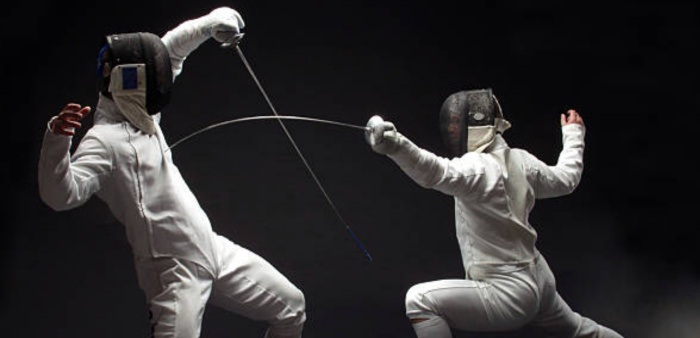
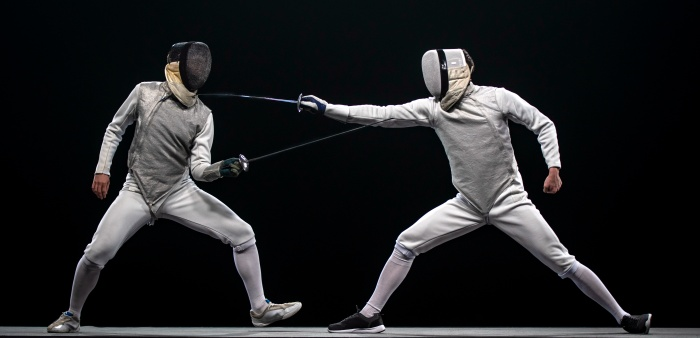
update photos and gui

diff --git a/src/main/gui/StadiumGui.java b/src/main/gui/StadiumGui.java
@@ -13,6 +13,7 @@ import javax.swing.border.LineBorder;
 import java.awt.event.ActionListener;
 import java.awt.event.ActionEvent;
 import javax.swing.*;
+import java.util.Date;
 /**
  * Class to create Stadium window in the game
  * @author Joshua K
@@ -109,8 +110,10 @@ public class StadiumGui implements UserInterface{
 	 * the battle photo for only the opponent athlete won
 	 */
 	private final ImageIcon rightWon = new ImageIcon(getClass().getResource("/Images/RightWon.jpg"));
-
-	
+	/**
+	 * the stanby photo when the player is waiting for the result
+	 */
+	private final ImageIcon standby = new ImageIcon(getClass().getResource("/Images/Standby.jpg"));
 
 
 	/**
@@ -194,7 +197,7 @@ public class StadiumGui implements UserInterface{
 		battlePhoto.setHorizontalAlignment(SwingConstants.CENTER);
 		battlePhoto.setBounds(465, 176, 700, 338);
 		frmStadium.getContentPane().add(battlePhoto);
-		
+		battlePhoto.setIcon(standby);
 	}
 	/*
 	 * set player's athlete and opponent's athlete panels with recent information
@@ -289,6 +292,8 @@ public class StadiumGui implements UserInterface{
 	 */
 	
 	private void getBuffStat() {
+		battlePhoto.setIcon(standby);
+		gameResultLabel.setText("Athlete is ready!!");
 		Athlete current = myRoster[setNum-1];
 		currentStatBuffLabel.setText(String.format("<html> Name : %s <br/>"
 				+ "Original Offense Stat : %d <br/>"
@@ -376,11 +381,21 @@ public class StadiumGui implements UserInterface{
 		fightBttn = new JButton("Fight");
 		fightBttn.addActionListener(new ActionListener() {
 			public void actionPerformed(ActionEvent e) {
-				gameEnvironment.battleSequences();
-				gameResultLabel.setText(printing(gameEnvironment.getBattleMessage()));
-				refreshWindow();	
-				gameEnvironment.isSet();
-				showBattlePhoto();
+
+				try {
+					fightBttn.setEnabled(false);
+					
+					Thread.sleep(400);
+					fightBttn.setEnabled(true);
+					gameEnvironment.battleSequences();
+					gameResultLabel.setText(printing(gameEnvironment.getBattleMessage()));
+					refreshWindow();	
+					gameEnvironment.isSet();
+					showBattlePhoto();
+				}
+				catch(InterruptedException ex) {
+					currentStatBuffLabel.setText(ex.getMessage());
+				}
 				
 				//if the game is finished, disable the gaming buttons and show the result of game on description label
 				if (gameEnvironment.isGame()) {

diff --git a/src/main/gui/MainScreenGui.java b/src/main/gui/MainScreenGui.java
@@ -100,10 +100,7 @@ public class MainScreenGui implements UserInterface{
 	/**
 	 * boolean value that shows if there was random athlete upgrade event
 	 */
-	private boolean isRandomUpgrade;
-	
-	private int testInt;
-	
+	private boolean isRandomUpgrade;	
 	
 	/**
 	 * MainScreen constructor to create main window
@@ -255,12 +252,14 @@ public class MainScreenGui implements UserInterface{
 		athleteBttns[6].addActionListener(new ActionListener() {
 			public void actionPerformed(ActionEvent e) {swapAthleteSlots(6);}});	
 		
-		
+		//when clicking swapOn button, it refresh the buttons clicked.
 		swapOn = new JCheckBox("Swap ON");
 		swapOn.setBounds(847, 370, 128, 23);
 		frmMainWindow.getContentPane().add(swapOn);
 		swapOn.addActionListener(event -> {
 			refreshWindow();
+			athleteSwitchingNum1 = -1;
+			athleteSwitchingNum2 = -1;
 		});
 		/**
 		 * make the labels for Athletes' name
@@ -495,11 +494,10 @@ public class MainScreenGui implements UserInterface{
 					gameEnvironment.useItem(athleteSwitchingNum2, usingItemNum);
 					athleteDescriptionLabel.setText(printing(myRoster[athleteSwitchingNum2]));
 					itemDescriptionLabel.setText("Item is used! Check the difference!!");}
-				
+				else {noticeLabel.setText("Please Click one athlete and one item for each ");}
 				refreshWindow();
 				cancelAthleteToggle();
 				cancelItemToggle();	
-				usingItemNum = -1;	
 			}
 		});
 		itemUseButton.setFont(new Font("Lucida Grande", Font.PLAIN, 20));

diff --git a/src/main/gameObject/athletes/type/Angelina.java b/src/main/gameObject/athletes/type/Angelina.java
@@ -41,6 +41,6 @@ public class Angelina extends Athlete {
         	super.price = 4500.00f;
         	break;
         }
-        super.athleteFacePhoto = new ImageIcon(getClass().getResource("/Images/AngelinaF.jpg"));
+        super.athleteFacePhoto = new ImageIcon(getClass().getResource("/Images/Angelina.jpg"));
     }
 }

diff --git a/src/main/gameObject/athletes/type/Dwayne.java b/src/main/gameObject/athletes/type/Dwayne.java
@@ -41,6 +41,6 @@ public class Dwayne extends Athlete {
         	super.price = 4500.00f;
         	break;
         }
-        super.athleteFacePhoto = new ImageIcon(getClass().getResource("/Images/DwayneF.jpg"));
+        super.athleteFacePhoto = new ImageIcon(getClass().getResource("/Images/Dwayne.jpg"));
     }
 }

diff --git a/src/main/gameObject/athletes/type/Thorin.java b/src/main/gameObject/athletes/type/Thorin.java
@@ -41,6 +41,6 @@ public class Thorin extends Athlete {
         	super.price = 4700.00f;
         	break;
         }
-        super.athleteFacePhoto = new ImageIcon(getClass().getResource("/Images/ThorinF.jpg"));
+        super.athleteFacePhoto = new ImageIcon(getClass().getResource("/Images/Thorin.jpg"));
     }
 }

diff --git a/src/main/gameObject/athletes/type/Prodo.java b/src/main/gameObject/athletes/type/Prodo.java
@@ -41,7 +41,7 @@ public class Prodo extends Athlete {
         	super.price = 4390.00f;
         	break;
         }
-        super.athleteFacePhoto = new ImageIcon(getClass().getResource("/Images/ProdoF.jpg"));
+        super.athleteFacePhoto = new ImageIcon(getClass().getResource("/Images/Prodo.jpg"));
     }
 
 }
